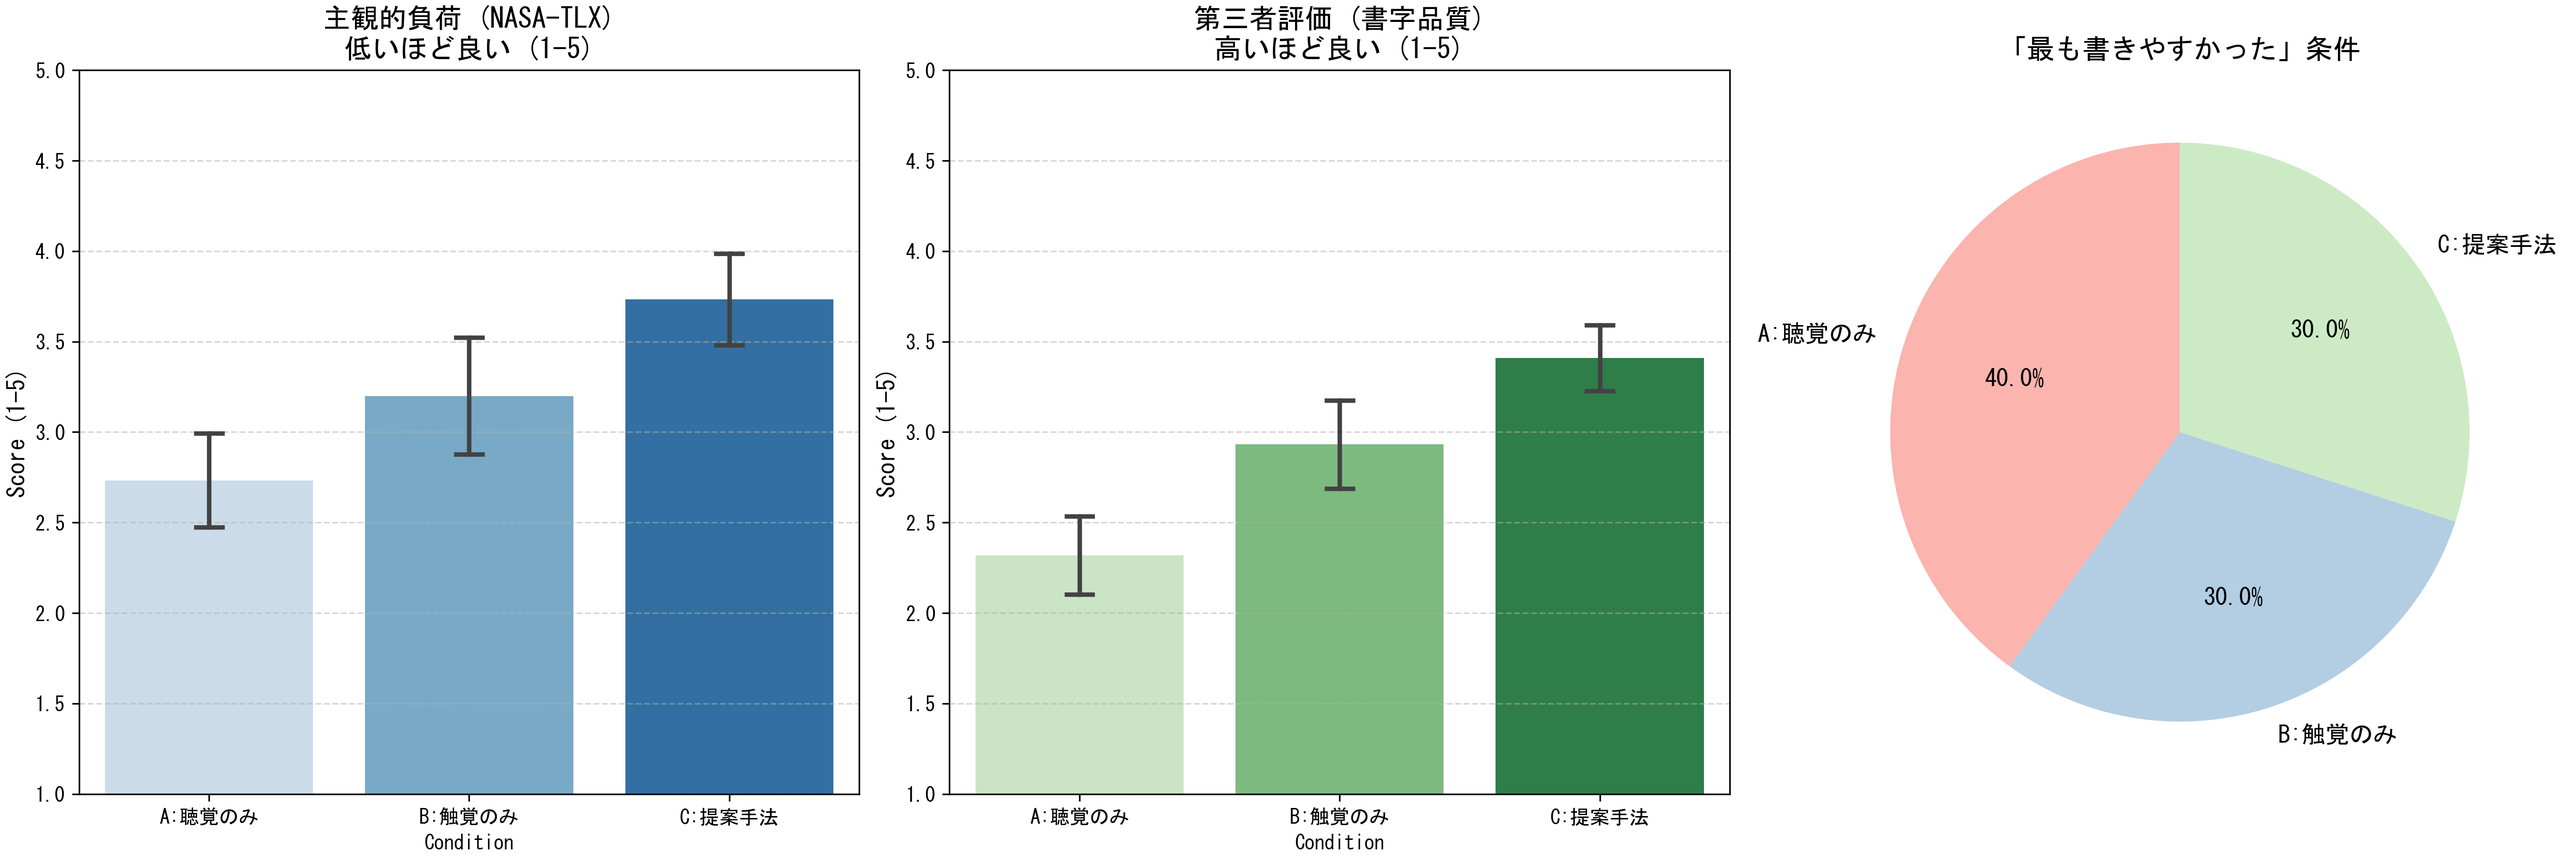
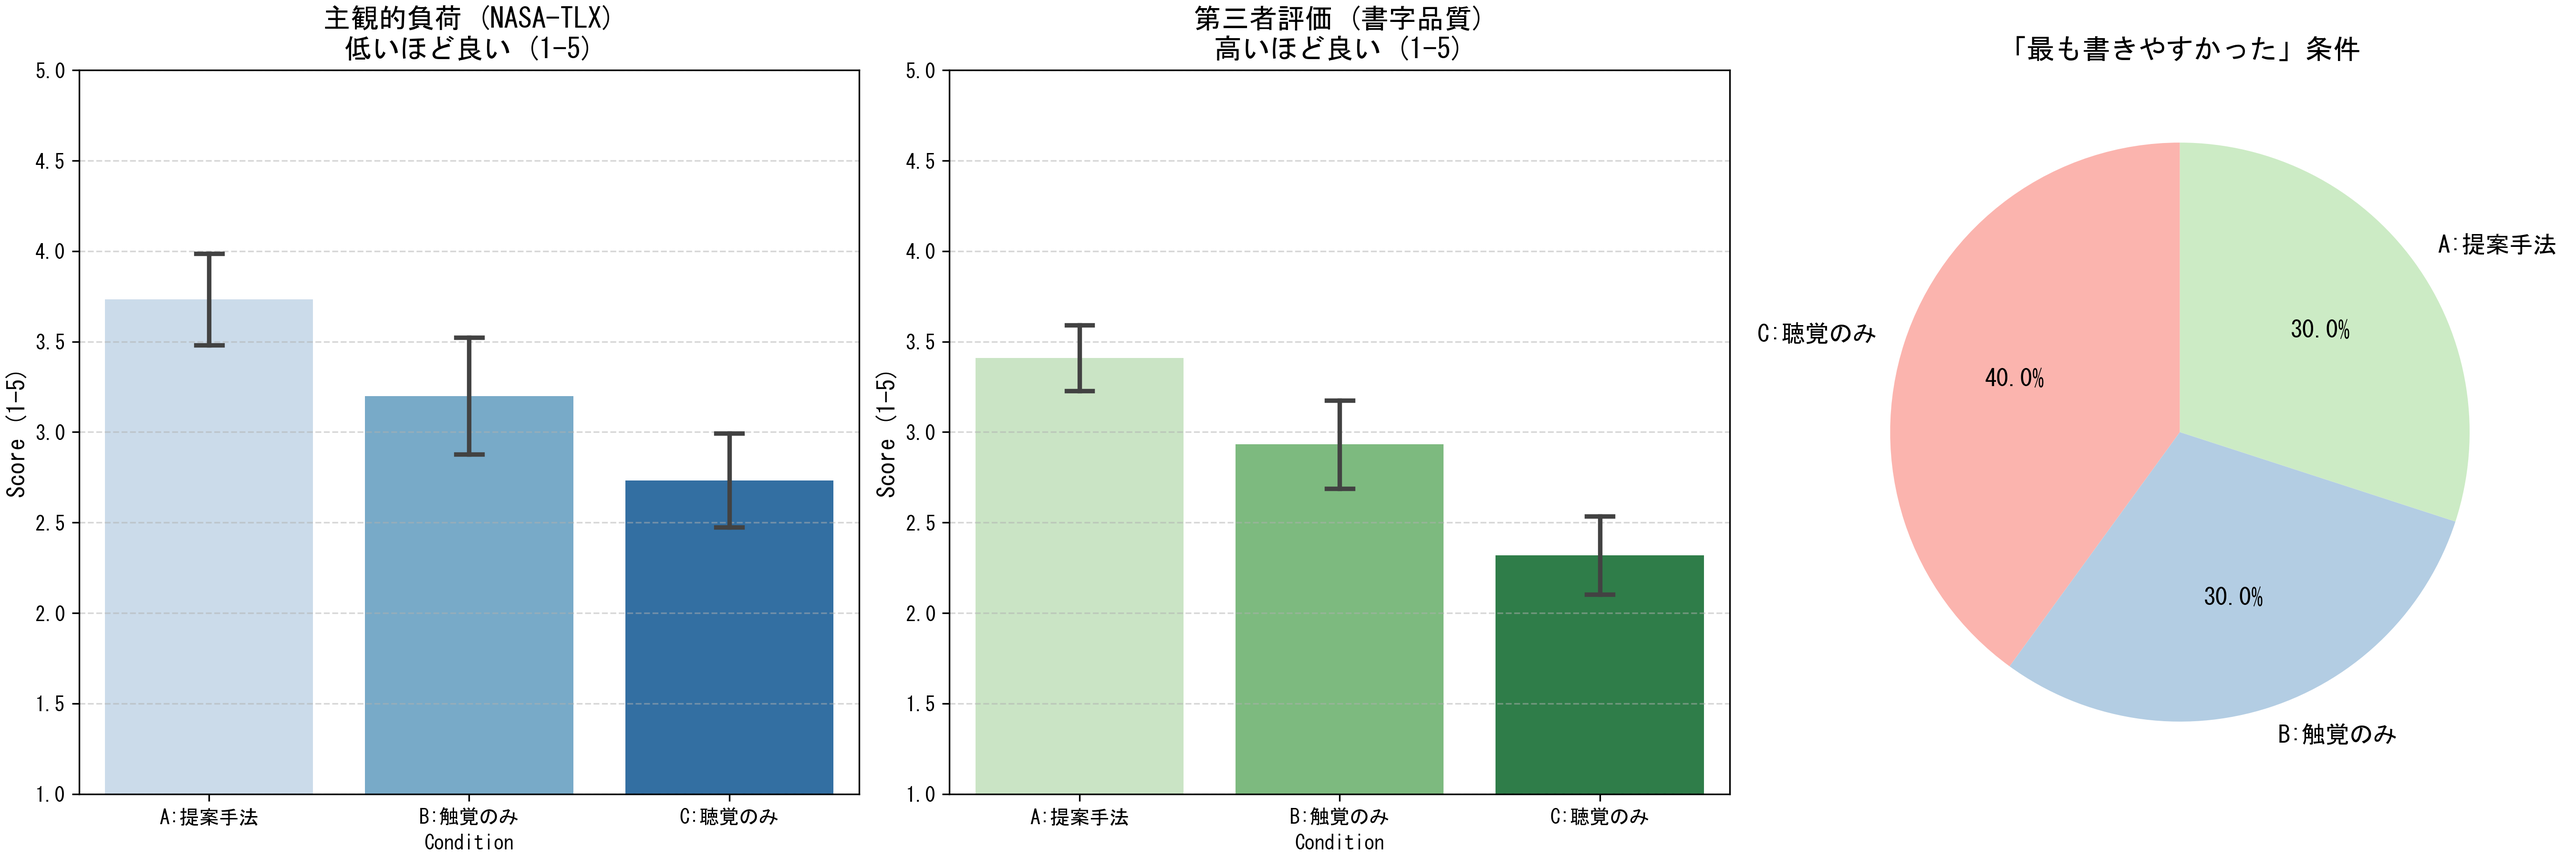
add

diff --git a/src/debug/評価2.py b/src/debug/評価2.py
@@ -3,41 +3,57 @@ import numpy as np
 import matplotlib.pyplot as plt
 import seaborn as sns
 import re
+import os # ファイル存在確認用
 
-# --- 1. フォント設定（エラー回避版） ---
-# Windowsなら 'MS Gothic', Macなら 'Hiragino Sans' などを指定
-# ここでは標準的な設定にします
-plt.rcParams['font.family'] = 'MS Gothic' 
+# --- 1. フォント設定 ---
+# システムに合わせて適切な日本語フォントを指定してください
+plt.rcParams['font.family'] = 'MS Gothic' # Windows用例
+# plt.rcParams['font.family'] = 'Hiragino Sans' # Mac用例
+# plt.rcParams['font.family'] = 'Noto Sans CJK JP' # Linux/Google Colab用例
 
 # --- 2. データ読み込み ---
 file_add = '書字評価システム実験追加アンケート(1-10).csv'
 file_eval = '第三者評価フォーム(1-11).csv'
+
+# ファイルの存在確認（エラーハンドリング追加）
+if not os.path.exists(file_add) or not os.path.exists(file_eval):
+    print(f"エラー: ファイルが見つかりません。")
+    print(f"  - {file_add}: {'存在します' if os.path.exists(file_add) else '見つかりません'}")
+    print(f"  - {file_eval}: {'存在します' if os.path.exists(file_eval) else '見つかりません'}")
+    print("ファイル名やパスを確認してください。")
+    exit()
 
 # 文字コードの自動判定読み込み
 try:
     df_add = pd.read_csv(file_add, encoding='utf-8')
     df_eval = pd.read_csv(file_eval, encoding='utf-8')
 except UnicodeDecodeError:
+    print("utf-8での読み込みに失敗しました。shift_jisで試行します。")
     df_add = pd.read_csv(file_add, encoding='shift_jis')
     df_eval = pd.read_csv(file_eval, encoding='shift_jis')
+except Exception as e:
+    print(f"ファイルの読み込み中にエラーが発生しました: {e}")
+    exit()
 
-# --- 3. 条件マッピング（確定版） ---
+# --- 3. 条件マッピング ---
 # 1(suffixなし)=聴覚, 2=触覚, 3=提案
 condition_map = {
-    '1': 'A:聴覚のみ',
+    '1': 'C:聴覚のみ',
     '2': 'B:触覚のみ',
-    '3': 'C:提案手法'
+    '3': 'A:提案手法'
 }
 
 # --- 4. 前処理関数 ---
 def clean_score(value):
     if pd.isna(value): return np.nan
+    # 数値が含まれていれば抽出
     match = re.search(r'\d+', str(value))
     if match: return int(match.group())
-    # 日本語評価の数値化
+    # 日本語評価の数値化 (第三者評価フォーム用)
     score_dict = {'できている': 5, '概ね': 4, 'どちらとも': 3, 'あまり': 2, '全く': 1}
+    val_str = str(value)
     for k, v in score_dict.items():
-        if k in str(value): return v
+        if k in val_str: return v
     return np.nan
 
 # --- 5. 集計処理 (TLX & Quality) ---
@@ -47,6 +63,10 @@ eval_items = ['字形', '線', '終筆', '総合']
 data_summary = []
 
 # IDリストの取得（両方のファイルにあるIDを対象にする）
+if '評価ID' not in df_add.columns or '評価ID' not in df_eval.columns:
+    print("エラー: CSVファイルに '評価ID' 列が見つかりません。列名を確認してください。")
+    exit()
+
 all_ids = set(df_add['評価ID']).union(set(df_eval['評価ID']))
 
 for pid in all_ids:
@@ -62,8 +82,11 @@ for pid in all_ids:
                 cols = [c for c in df_add.columns if any(k in c for k in tlx_items) and '2' not in c and '3' not in c]
             else:
                 cols = [c for c in df_add.columns if any(k in c for k in tlx_items) and suffix in c]
-            scores = [clean_score(row_add[c]) for c in cols]
-            tlx_score = np.nanmean(scores) if scores else np.nan
+            
+            scores = [clean_score(row_add[c]) for c in cols if c in row_add]
+            # Noneを除外してから平均を計算
+            valid_scores = [s for s in scores if pd.notna(s)]
+            tlx_score = np.mean(valid_scores) if valid_scores else np.nan
             
         # 品質スコア計算
         qual_score = np.nan
@@ -72,8 +95,11 @@ for pid in all_ids:
                 cols = [c for c in df_eval.columns if any(k in c for k in eval_items) and '2' not in c and '3' not in c]
             else:
                 cols = [c for c in df_eval.columns if any(k in c for k in eval_items) and suffix in c]
-            scores = [clean_score(row_eval[c]) for c in cols]
-            qual_score = np.nanmean(scores) if scores else np.nan
+            
+            scores = [clean_score(row_eval[c]) for c in cols if c in row_eval]
+            # Noneを除外してから平均を計算
+            valid_scores = [s for s in scores if pd.notna(s)]
+            qual_score = np.mean(valid_scores) if valid_scores else np.nan
             
         if not np.isnan(tlx_score) or not np.isnan(qual_score):
             data_summary.append({
@@ -83,36 +109,75 @@ for pid in all_ids:
                 'Quality': qual_score
             })
 
+if not data_summary:
+    print("エラー: 集計できるデータがありませんでした。列名やデータの値を確認してください。")
+    exit()
+
 df_final = pd.DataFrame(data_summary)
 
 # --- 6. グラフ描画 ---
-fig, axes = plt.subplots(1, 3, figsize=(18, 5))
+
+# ========================== 色設定エリア ==========================
+# ここで好きな色を指定してください。
+# 色の名前（'red', 'blue'など）、16進数カラーコード（'#FF0000'など）のリスト、
+# またはSeabornのパレット名（'deep', 'pastel', 'Set2'など）が使えます。
+# リストの場合、条件の順番（A:提案, B:触覚, C:聴覚 の順でソートされます）に対応します。
+
+# 例1: 具体的な色のリストで指定 (自由度が高い)
+# tlx_colors = ['#ff9999', '#66b3ff', '#99ff99']
+# quality_colors = ['salmon', 'skyblue', 'lightgreen']
+# scatter_colors = ['red', 'blue', 'green']
+
+# 例2: Seabornのカラーパレット名で指定 (簡単)
+tlx_colors =    ['#6cbc6e','#2f837f','#455681'] # 青系のグラデーション (末尾の_dは濃いめ)
+quality_colors = ['#6cbc6e','#2f837f','#455681'] # 緑系のグラデーション
+scatter_colors = ['#6cbc6e','#2f837f','#455681']      # 標準的なカラーパレット
+
+# ===================================================================
+
+fig, axes = plt.subplots(1, 3, figsize=(18, 6))
+
+# 条件の表示順序を固定する（A->B->C の順）
+order = sorted(df_final['Condition'].unique())
 
 # (1) 負荷 (TLX)
-sns.barplot(data=df_final, x='Condition', y='TLX', ax=axes[0], palette='Blues', capsize=.1, errorbar='se')
-axes[0].set_title('主観的負荷 (低い方が楽)')
-axes[0].set_ylabel('NASA-TLX Score')
-axes[0].set_ylim(0, 10) # 0-10評価に変換されている場合。0-100なら適宜変更
+sns.barplot(data=df_final, x='Condition', y='TLX', ax=axes[0], 
+            palette=tlx_colors, order=order, capsize=.1, errorbar='se')
+axes[0].set_title('主観的負荷 (低い方が楽)', fontsize=14)
+axes[0].set_ylabel('NASA-TLX Score', fontsize=12)
+axes[0].set_ylim(0, 10) # 0-10評価の場合。必要に応じて変更してください
+axes[0].tick_params(axis='x', rotation=15) # ラベルが重なる場合は角度をつける
 
 # (2) 品質 (Quality)
-sns.barplot(data=df_final, x='Condition', y='Quality', ax=axes[1], palette='Greens', capsize=.1, errorbar='se')
-axes[1].set_title('書字品質 (高い方が良い)')
-axes[1].set_ylabel('Quality Score (1-5)')
-axes[1].set_ylim(1, 5)
+sns.barplot(data=df_final, x='Condition', y='Quality', ax=axes[1], 
+            palette=quality_colors, order=order, capsize=.1, errorbar='se')
+axes[1].set_title('書字品質 (高い方が良い)', fontsize=14)
+axes[1].set_ylabel('Quality Score (1-5)', fontsize=12)
+axes[1].set_ylim(1, 5.2) # 上限を少し空ける
+axes[1].tick_params(axis='x', rotation=15)
 
 # (3) 散布図 (トレードオフ確認用)
 mean_vals = df_final.groupby('Condition')[['TLX', 'Quality']].mean().reset_index()
-sns.scatterplot(data=mean_vals, x='TLX', y='Quality', hue='Condition', s=500, ax=axes[2], palette='Set2')
+# 散布図のマーカーサイズを調整
+sns.scatterplot(data=mean_vals, x='TLX', y='Quality', hue='Condition', 
+                s=300, ax=axes[2], palette=scatter_colors, hue_order=order, style='Condition')
+
+# テキストラベルの追加（重なりを防ぐため少し調整）
 for i, row in mean_vals.iterrows():
-    axes[2].text(row['TLX'], row['Quality']+0.1, row['Condition'], ha='center', fontsize=12, fontweight='bold')
-axes[2].set_title('負荷 vs 品質 (右上ほど「大変だが高品質」)')
-axes[2].set_xlabel('主観的負荷 (TLX)')
-axes[2].set_ylabel('品質 (Quality)')
-axes[2].grid(True, linestyle='--')
+    axes[2].text(row['TLX'], row['Quality'] + 0.08, row['Condition'].split(':')[0], 
+                 ha='center', va='bottom', fontsize=12, fontweight='bold', 
+                 color=sns.color_palette(scatter_colors, n_colors=len(order))[order.index(row['Condition'])])
+
+axes[2].set_title('負荷 vs 品質 (右上ほど「大変だが高品質」)', fontsize=14)
+axes[2].set_xlabel('主観的負荷 (TLX)', fontsize=12)
+axes[2].set_ylabel('品質 (Quality)', fontsize=12)
+axes[2].grid(True, linestyle='--', alpha=0.7)
+# 凡例をグラフの外側に配置
+axes[2].legend(bbox_to_anchor=(1.05, 1), loc='upper left', borderaxespad=0.)
 
 plt.tight_layout()
 plt.show()
 
 # 数値の出力
 print("--- 条件別 平均スコア ---")
-print(mean_vals)
+print(mean_vals.set_index('Condition'))

diff --git a/src/debug/nsatlx.py b/src/debug/nsatlx.py
@@ -44,7 +44,7 @@ def extract_score(val):
 tlx_cols_map = [
     ('聴覚', df.columns[8:14]),
     ('触覚', df.columns[14:20]),
-    ('提案システム', df.columns[20:26])
+    ('提案手法', df.columns[20:26])
 ]
 
 subscales_jp = ['精神的負担', '身体的負担', '時間的切迫感', '作業達成感', '努力', '不満']
@@ -69,7 +69,7 @@ tlx_df = pd.DataFrame(tlx_data)
 # 質問：「作業のやりづらさ」順 (1位=一番やりづらい, 3位=一番楽)
 # グラフ化：「やりやすさ」 (1点=やりづらい, 3点=やりやすい) に変換
 
-ease_scores = {'聴覚': [], '触覚': [], '提案システム': []}
+ease_scores = {'聴覚': [], '触覚': [], '提案手法': []}
 ranking_col = df.columns[7]
 
 for val in df[ranking_col]:
@@ -82,7 +82,7 @@ for val in df[ranking_col]:
         # 名前を統一
         if '聴覚' in item_raw: name = '聴覚'
         elif '触覚' in item_raw: name = '触覚'
-        elif '提案' in item_raw: name = '提案システム'
+        elif '提案' in item_raw: name = '提案手法'
         else: continue
             
         # rank 0 (1位:やりづらい) -> Score 1
@@ -108,7 +108,7 @@ elif system_name == 'Darwin':
     plt.rcParams['font.family'] = 'Hiragino Sans'
 
 # 表示順序
-order_cond = ['聴覚', '触覚', '提案システム']
+order_cond = ['聴覚', '触覚', '提案手法']
 order_subscale = subscales_jp
 
 # --- グラフ1: NASA-TLX ---

diff --git a/src/debug/書きやすさ.py b/src/debug/書きやすさ.py
@@ -33,10 +33,10 @@ df['most_writable'] = df[target_col].apply(get_most_writable)
 counts = df['most_writable'].value_counts()
 
 # 5. 色の設定（前回のグラフと同じ色合いに固定）
-# 聴覚のみ＝青、提案システム＝オレンジ、触覚のみ＝緑
+# 聴覚のみ＝青、提案手法＝オレンジ、触覚のみ＝緑
 color_map = {
     '聴覚のみ': '#455681',    # 青
-    '提案システム': "#6cbc6e",  # オレンジ
+    '提案手法': "#6cbc6e",  # オレンジ
     '触覚のみ': '#2f837f'     # 緑
 }
 # データ順に合わせて色リストを作成

diff --git a/src/debug/zure.py b/src/debug/zure.py
@@ -37,14 +37,14 @@ configure_japanese_font()
 # ==========================================
 # 条件ごとの色設定
 color_map = {
-    'A': '#6cbc6e',  # 提案システム (緑系)
+    'A': '#6cbc6e',  # 提案手法 (緑系)
     'B': '#2f837f',  # 触覚のみ (青紫系)
     'C': '#455681'   # 聴覚のみ (青紫系)
 }
 
 # 条件ごとの表示名設定
 label_map = {
-    'A': '提案システム',
+    'A': '提案手法',
     'B': '触覚のみ',
     'C': '聴覚のみ'
 }

diff --git a/src/debug/評価.py b/src/debug/評価.py
@@ -14,9 +14,9 @@ FILE_EVAL = '第三者評価フォーム(1-11).csv'
 
 # 条件マッピング
 CONDITION_MAP = {
-    '1': 'A:聴覚のみ',      
+    '1': 'C:聴覚のみ',      
     '2': 'B:触覚のみ',      
-    '3': 'C:提案手法'       
+    '3': 'A:提案手法'       
 }
 ORDER_LIST = sorted(list(CONDITION_MAP.values()))
 
